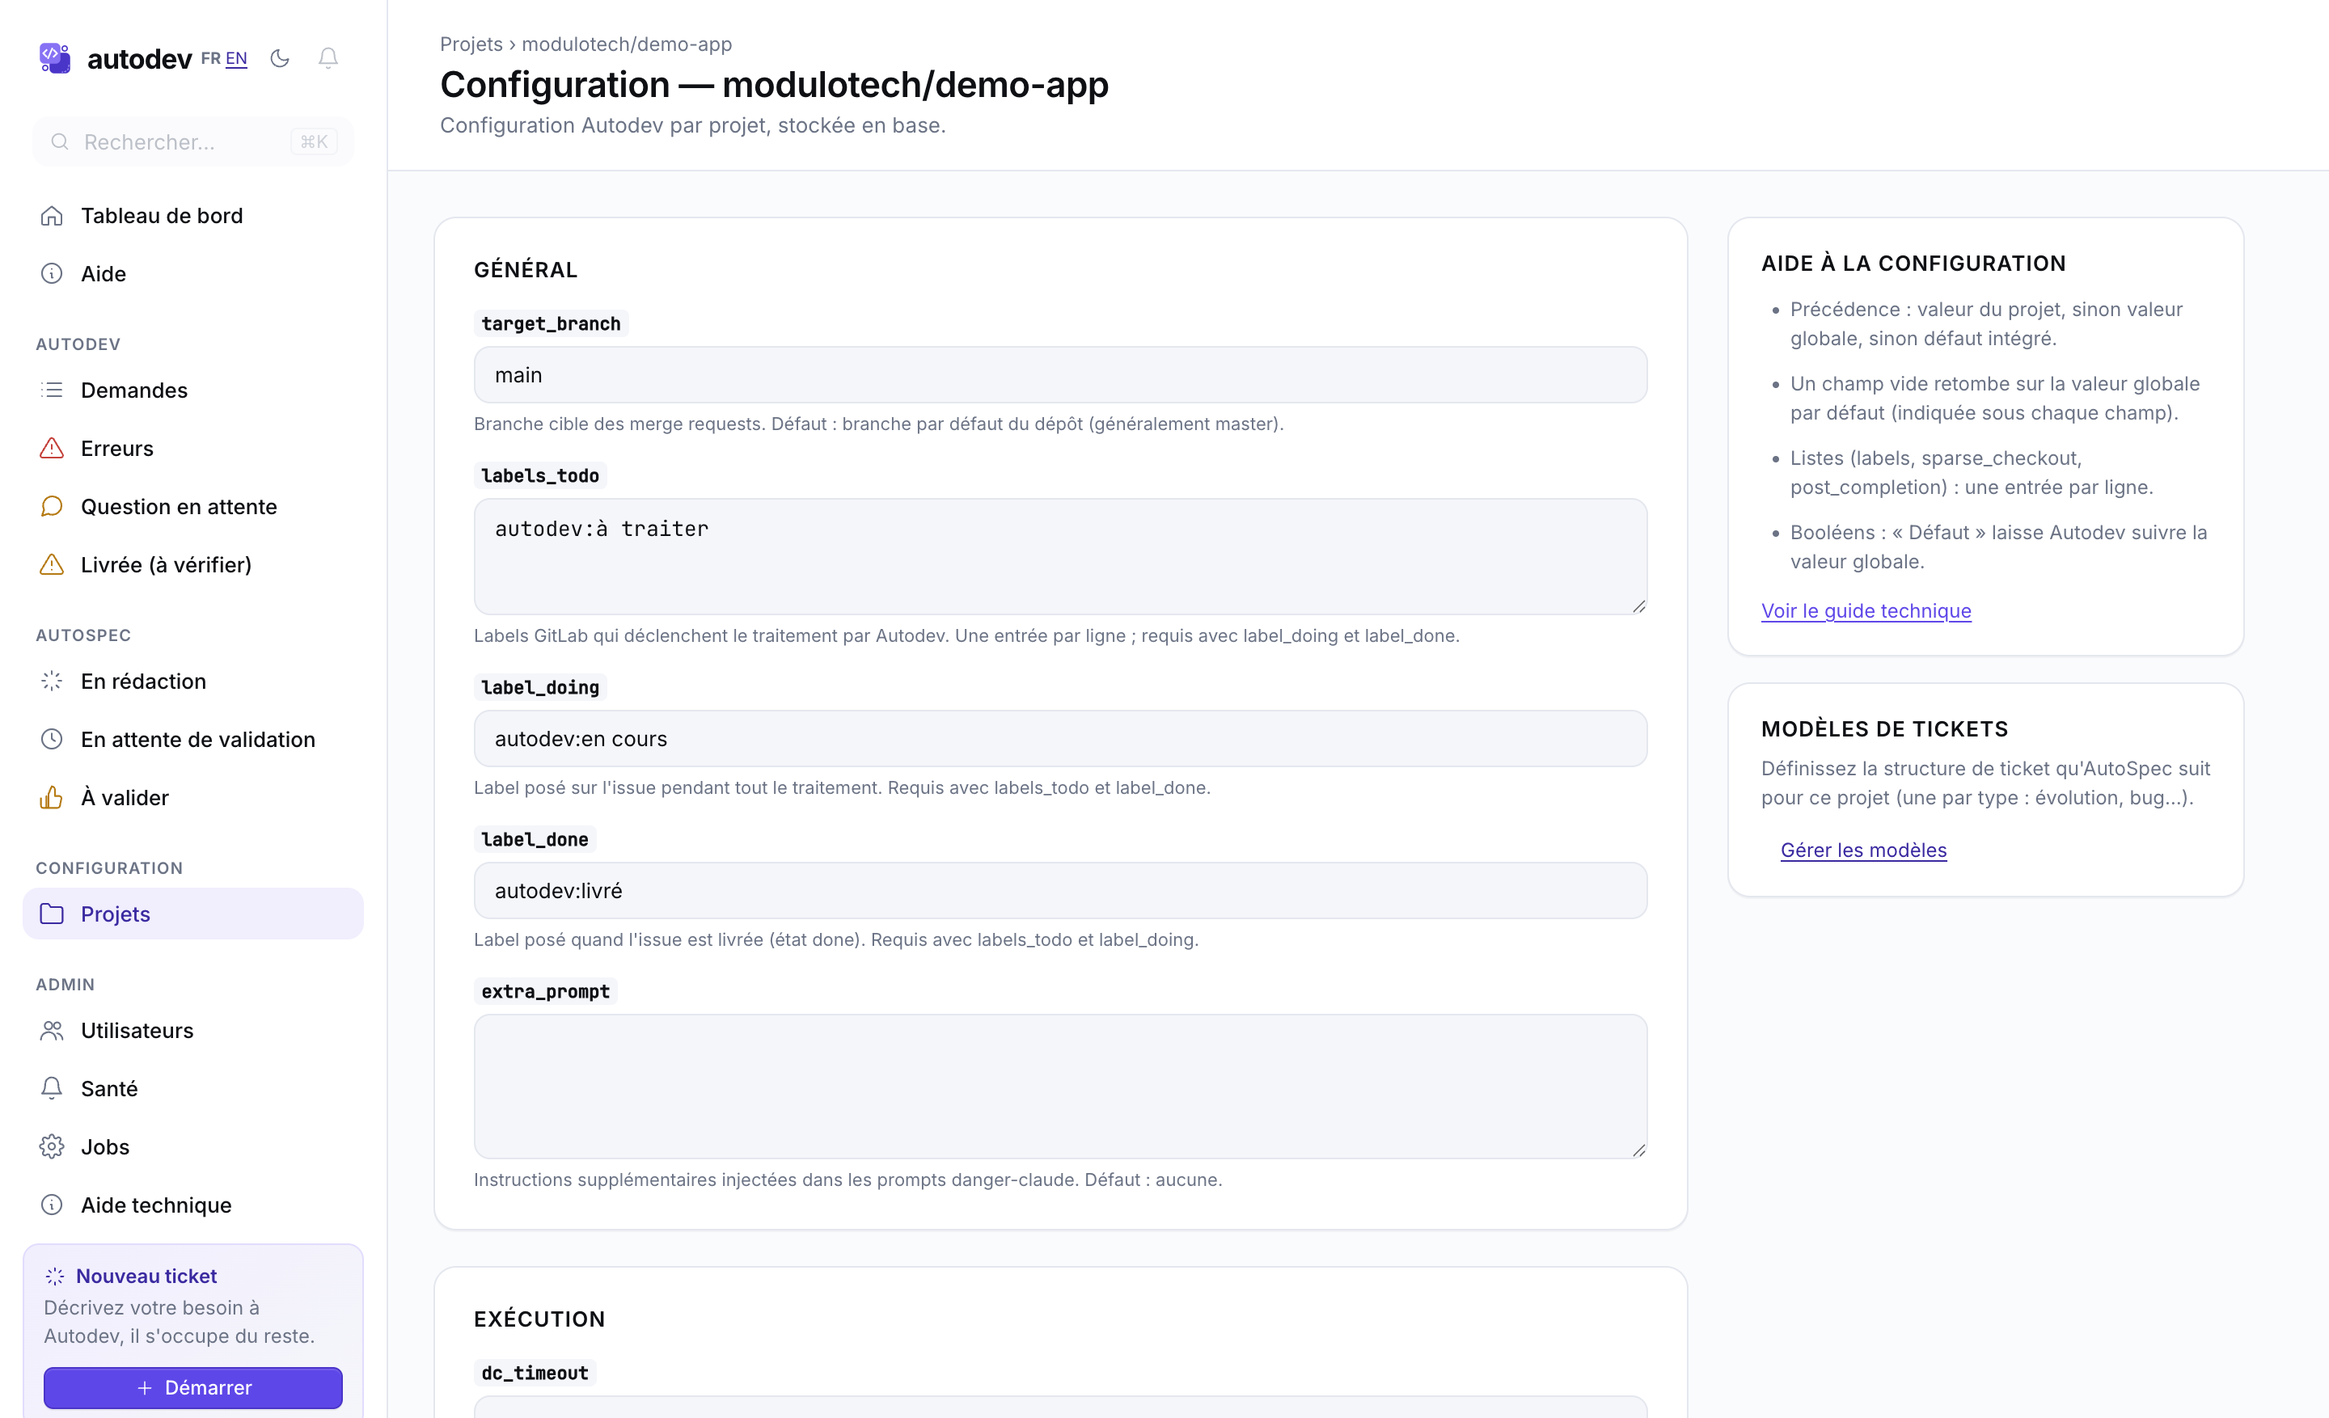
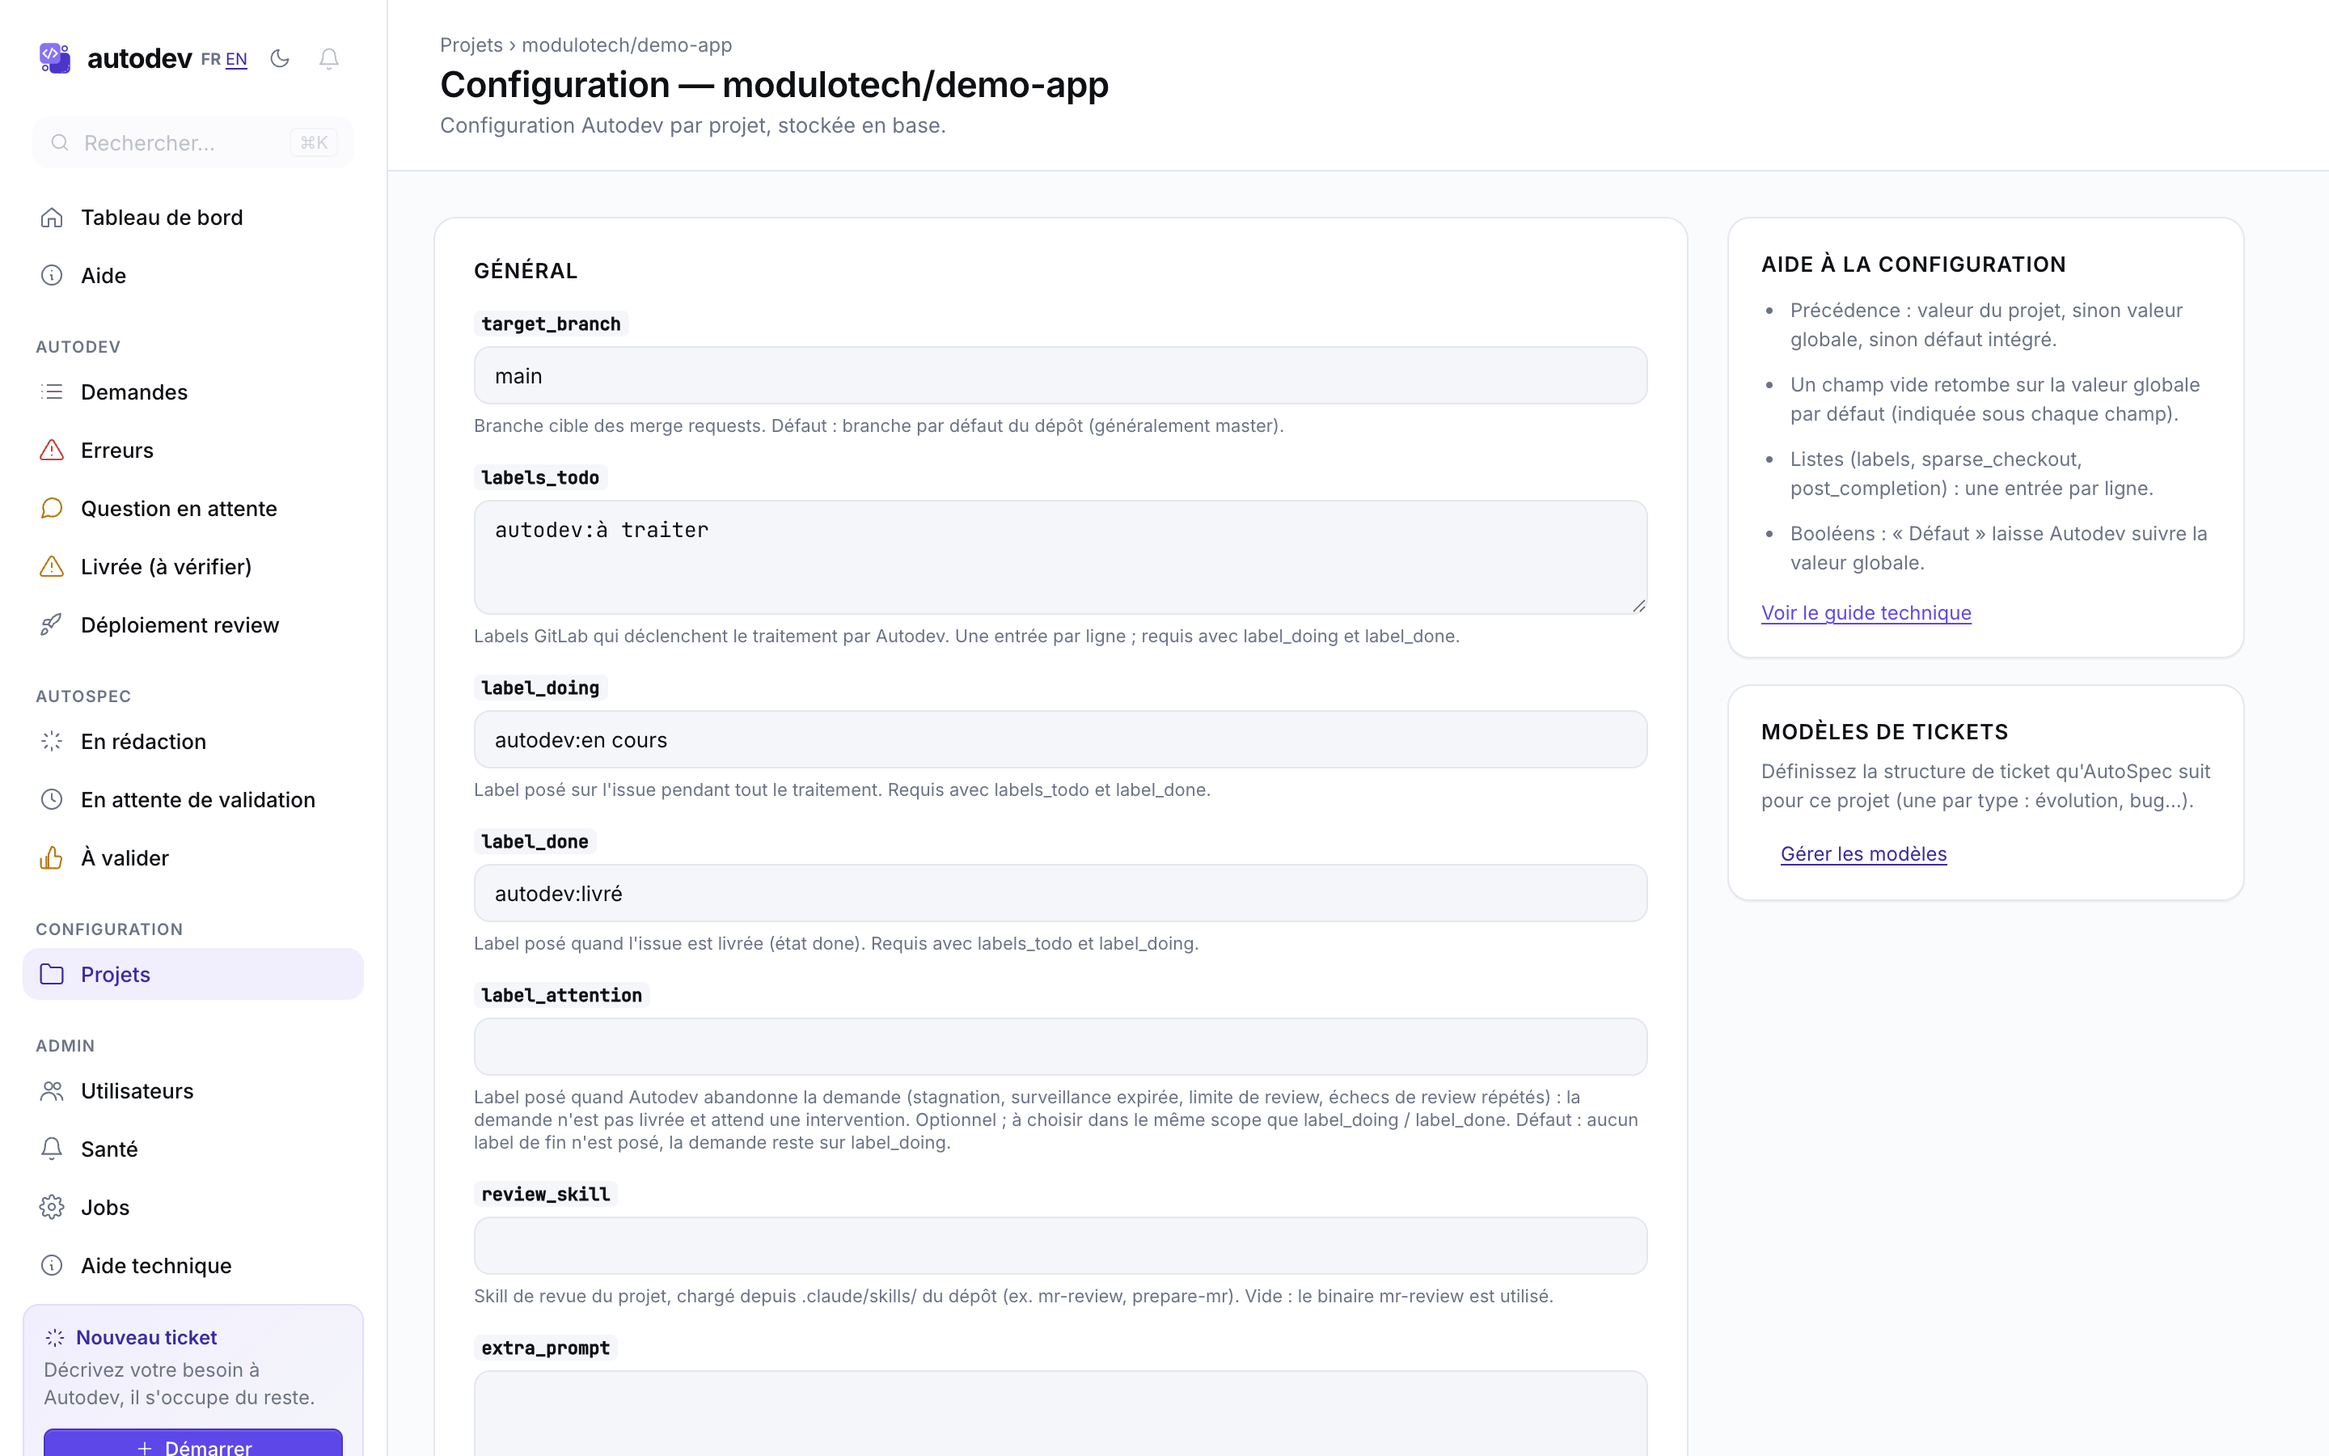
docs: the error catalogue catches up with eleven cases, and the config form is reshot
The technical guide is rendered at /admin/help, and its error catalogue had
not been extended since the review step forked in two.

Added, in the guide's own terms and order: the four failure classes the
skill path introduced (a declared skill missing from the clone, diff_refs
not yet computed, a GitLab error while ReviewPublisher posts, a Claude
quota or credential failure during a skill review — #74); the three
unreachable-read cases that must abort a poll instead of reading as good
news (the jobs endpoint, any read the poll concludes from, the
prompt-context read — #62, #67, #71); the two todo-label-reposed cases the
poll router now answers per issue (#67); the interrupted pre-MR reset that
must stamp next_retry_at; and the health probe that sees the review broken
for everybody (#60).

Also: `autodev -t TOKEN` joins the supervisor's flag table, and the
needs_clarification row of the technical→métier mapping carries the exact
label web.fr.yml renders.

The two configuration-form screenshots are reshot against the current
form: both predated label_attention (#63) and review_skill (#74), so they
showed a GÉNÉRAL block missing the two fields this release documents.
Captured through the documented mode-B flow — scratch DB, demo project,
temporary dev-login shim, deleted afterwards.

The functional guide needed nothing: it was kept in step ticket by ticket.

diff --git a/docs/usage/autodev-technical-usage.md b/docs/usage/autodev-technical-usage.md
@@ -232,6 +232,7 @@ Le binaire `autodev` est à la fois le supervisor (par défaut, démarre Rails +
 | `autodev` | Lance le supervisor (Rails + worker Solid Queue), foreground. |
 | `brew services start autodev` | Idem mais via launchd, logs dans `~/.autodev/log/`. |
 | `autodev -c PATH` | Utilise un fichier de config alternatif. |
+| `autodev -t TOKEN` | Force le token d'API GitLab (`gitlab_token`). |
 | `autodev -n N` | Force le nombre de workers Solid Queue (`AUTODEV_MAX_WORKERS`). |
 | `autodev -i SECONDS` | Force l'intervalle de poll (`AUTODEV_POLL_INTERVAL`). |
 
@@ -292,7 +293,7 @@ Le modèle `Issue` (`app/models/issue.rb`) embarque AASM. 17 états, transitions
 | `fixing_pipeline` | Correction des tests qui échouent |
 | `running_post_completion` | Finalisation |
 | `answering_question` | Réponse à une question |
-| `needs_clarification` | En attente d'une précision |
+| `needs_clarification` | En attente d'une précision de ta part |
 | `done` | Livrée (libellé *Livrée (à vérifier)* quand un cap/stagnation a forcé la livraison) |
 | `error` | Bloquée, intervention nécessaire |
 | `closed` | Clôturée |
@@ -560,6 +561,10 @@ DB primaire : `autospec_drafts` (dont `ticket_template_id`), `autospec_messages`
 |---|---|
 | `danger-claude` non installé | Abort au démarrage |
 | `mr-review` non installé | Warning au démarrage **si au moins un projet ne déclare pas de `review_skill`** (Autodev #74), et étape review skippée pour ces projets-là seulement. Un projet sur le chemin skill lance sa revue via `danger-claude`, qui est une dépendance dure : rien n'est skippé pour lui |
+| Projet déclarant un `review_skill` absent du clone (`.claude/skills/<nom>/SKILL.md`) | `ConfigError` (Autodev #74), volontairement hors du rescue de `review_with_skill` **et** des trois bras de `launch_review` : ce n'est pas un échec de review, aucun compteur ne bouge, et seul le `rescue StandardError` de `PipelineMonitor#check` l'attrape pour la logger. La ligne reste en `reviewing`, qu'aucune passe ne re-sélectionne — c'est `DormantAudit` qui finit par la signaler (`dormant_exhausted`). L'attraper aurait écrit un `ActivityEvent` à chaque poll, donc une boucle non bornée et non signalée : se garer est le moins mauvais des deux comportements disponibles |
+| Review par skill lancée mais `diff_refs` pas encore calculés par GitLab | `review_with_skill` répond `:inconclusive` (Autodev #74), ni vrai ni faux : retour en `checking_pipeline`, **aucun** des deux compteurs touché, et `restore_watch_clock` remet le `checking_pipeline_since` que le poll avait au départ — sinon `stamp_pipeline_watch!` relancerait la borne d'âge de 14 jours à chaque poll de ce type et elle ne tomberait jamais. Le poll suivant refait la review en entier |
+| Erreur GitLab pendant la publication de la review (`ReviewPublisher`) | `ApiUnavailableError`, rescue dans `launch_review` (Autodev #74) : retour en `checking_pipeline` via `resume_watch`, compteurs et horloge de surveillance intacts, puis **re-raise** pour que le poll avorte quand même à la frontière de `PipelineMonitor#check`. Sans ce rescue la ligne restait en `reviewing`, que `dispatch_pipelines` ne sélectionne pas : un 500 transitoire coûtait deux heures et une des trois tentatives de `dormant_audit_max` |
+| Quota Claude épuisé ou credentials morts **pendant** une review par skill | Le chemin skill passe par `danger_claude_prompt`, donc il peut lever `RateLimitError` / `AuthenticationError` là où le binaire ne le pouvait pas. `launch_review` y répond comme tous les autres sites d'appel : `handle_rate_limit` (→ `error` + `next_retry_at`) et `handle_auth_failure` (→ `error`, sans retry, lu par la carte 401 du dashboard). Aucun des deux ne dépense `review_failure_count` |
 | Clone échoue | `error`, retry au prochain poll avec backoff |
 | Aucun changement produit par `danger-claude` | `error` |
 | Push échoue | Retry avec `--force-with-lease` |
@@ -573,6 +578,9 @@ DB primaire : `autospec_drafts` (dont `ticket_template_id`), `autospec_messages`
 | Pipeline rouge (infra / incertaine, 1re fois) | Retrigger unique, recheck au poll suivant |
 | Pipeline rouge (infra / incertaine, après retrigger) | Reste en `checking_pipeline` (manuel) |
 | Pipeline manual / skipped | Résolu sur les jobs bloquants : aucun en échec → vert → review → livraison ; un en échec → chemin rouge. `manual` est l'état final normal d'une MR verte sur un projet dont la pipeline se termine par un `deploy_review` manuel — l'attente était infinie par construction |
+| Pipeline manual / skipped, endpoint jobs injoignable | La lecture lève `ApiUnavailableError` (Autodev #62), le poll avorte, la ligne reste en `checking_pipeline` et est relue au cycle suivant. Une erreur d'API ne doit jamais se lire « rien n'a échoué » — et comme l'abort précède la borne d'âge, elle ne peut pas non plus périmer la surveillance (Autodev #56) |
+| Toute lecture GitLab dont le poll tire une conclusion est injoignable (liste des jobs, discussions de la MR) | Idem : `GitlabHelpers.answer` convertit l'erreur en `ApiUnavailableError` à la lecture, `PipelineMonitor#check` / `MrFixer#fix` / `recheck_infra_recovery` l'attrapent à leur frontière, la ligne garde son statut et une ligne de log nomme l'endpoint tombé. Les compteurs restent intacts eux aussi : la signature de stagnation s'écrit *après* le retour de `clone_and_fix` et la tentative d'infra-recheck après la lecture, donc une panne ne dépense aucun des deux budgets (Autodev #71). Il n'existe aucune valeur de retour signifiant « inconnu » — c'est précisément ce qui rendait une panne indistinguable d'une bonne nouvelle (Autodev #62) |
+| Lecture du contexte de prompt injoignable (`fetch_full_context` — ticket, commentaires, historique des discussions) | Idem sur les deux arbres de correction (Autodev #67) : `attempt_fix` et `execute_fix_cycle` re-lèvent `ApiUnavailableError` au-dessus de leurs deux handlers au lieu de l'imputer à la correction, et `dispatch_fix` fait la lecture *avant* `pipeline_failed_code!` pour que l'abort laisse la ligne en `checking_pipeline` et non en `fixing_pipeline`, qu'aucune passe ne sélectionne. Sur le chemin de **l'implémentation initiale** la réponse est volontairement différente — `error` + `next_retry_at` — parce qu'aucune passe ne ré-enfile une ligne active |
 | Pipeline canceled | Reste en `checking_pipeline` (manuel) : un run interrompu n'a pas de verdict lisible, et il est en général remplacé par une nouvelle pipeline. **Borné** par `pipeline_watch_max_days` |
 | Stagnation pipeline (5 corrections identiques) | `done` + `needs_attention` (`stagnation_pipeline`) + `label_attention`, commentaire d'alerte incluant le job en cause (`attention_detail`, ex. `deploy_review (script_failure)`). Re-tentative auto une fois CI rétablie (voir ligne suivante) |
 | Stagnation pipeline infra — CI rétabli | `dispatch_infra_recheck` ré-enfile `:recheck_infra` ; pipeline courante verte → réentrée `checking_pipeline`. Borné par `infra_recheck_max` (5) / `infra_recheck_backoff` (3600 s) ; jamais de boucle |
@@ -586,10 +594,14 @@ DB primaire : `autospec_drafts` (dont `ticket_template_id`), `autospec_messages`
 | Désassigné en cours d'implémentation | `closed` au poll suivant (était `done` avant #52) + commentaire GitLab explicite. Sort de la population de `dispatch_done_unassigned` : plus de `post_completion` sur un travail interrompu |
 | `label_doing` retiré / `label_done` posé par un tiers | `closed` au poll suivant + commentaire GitLab nommant le label (`Autodev::LabelHandover`) |
 | Label de workflow déplacé vers une autre valeur du scope d'autodev | Idem. Le scope est déduit de `label_doing` + `label_done` (`label_attention`, qu'Autodev écrit lui aussi, est retiré de l'ensemble des labels « libres » mais reste hors de la dérivation) ; les labels hors scope (`PM::Evolution`, `Backlog`, noms de clients…) sont ignorés, et la règle se désactive d'elle-même si ces deux labels ne partagent aucun scope. L'auteur de l'édition est lu dans les *resource label events* GitLab, et seulement quand la lecture gratuite des labels a déjà un candidat — un ticket sain ne coûte aucun appel API supplémentaire |
+| Label todo reposé sur un ticket terminé, état de la MR illisible | `PollRouter#route` saute *cette issue* pour le cycle (Autodev #67) — la frontière est par issue, donc le reste de la passe tourne. Avant, l'illisible se lisait `:reimplementation`, la branche la plus chère qui existe |
+| Label todo reposé sur un ticket terminé, MR `locked` | Attente : aucune transition, aucun label, aucun commentaire. `locked` est l'état transitoire de fusion de GitLab, et la branche `else → :reimplementation` re-implémentait par-dessus un travail sur le point d'atterrir. Le label todo reste posé et le cycle suivant relit (Autodev #67) |
 | Interruption en `fixing_pipeline` | Reset à `checking_pipeline` au boot |
 | Interruption en `reviewing` | Reset à `checking_pipeline` au boot |
 | Échec du hook `post_completion` | Non bloquant : `done` quand même, erreur stockée dans `post_completion_error`, visible via `--errors` et dans l'onglet *Livrée (à vérifier)* (`/issues?tab=delivered_review`) |
 | Interruption en `running_post_completion` | Reset à `done` au boot (non rejoué) |
+| Interruption avant l'ouverture de la MR (`cloning`…`creating_mr`) | Reset à `pending` **et** `next_retry_at` estampillé → ré-enfilée par `:retry_stuck` au poll suivant. Sans l'estampille le label GitLab reste `label_doing`, donc `dispatch_new_issues` ne la redécouvre jamais : une `pending` orpheline |
+| Review en échec sur plusieurs tickets à la fois (quel que soit le chemin) | La sonde `mr_review` de `HealthReport` lève un `warn` sur `/admin/health` + `/healthz` (200, pas 503 — une review cassée n'arrête pas la livraison) dès que **≥ `monitoring.review_failure_threshold` issues distinctes** (défaut 3) ont enregistré un échec de review dans **`monitoring.review_failure_window_seconds`** (défaut 21 600 = 6 h). `review_failure_count` et `review_failures_exhausted`, qui sont par ticket, ne peuvent pas voir ça : une panne globale ressemble à N tickets sans rapport (Autodev #60). Les deux défauts sont calibrés sur la production — les incidents isolés plafonnent à 1 issue distincte par fenêtre de 6 h, la panne du 11/08/2026 en a atteint 25 |
 | Usage Claude exhausted | Gate **par passe** (`Autodev::UsageGate`) : seules les passes qui appellent `danger-claude` / `mr-review` sont sautées. Suivi des pipelines, clôtures GitLab, post-completion et rechecks continuent — une coupure ne gèle plus les tickets déjà implémentés. Bandeau warn sur le dashboard, carte *Quota Claude* sur `/admin/health`. Fail-open sur sonde absente / illisible / périmée |
 
 \newpage

diff --git a/CHANGELOG.md b/CHANGELOG.md
@@ -2,6 +2,10 @@
 
 ## [Unreleased]
 
+### Changed
+
+- **The technical guide's error catalogue catches up with eleven cases the code already handles.** `docs/usage/autodev-technical-usage.md` is rendered at `/admin/help`, and its catalogue had not been extended since the review step forked in two: the four failure classes the skill path introduced (a declared skill missing from the clone, `diff_refs` not yet computed, a GitLab error while `ReviewPublisher` posts, a Claude quota or credential failure *during* a skill review — Autodev #74), the three unreachable-read cases that must abort a poll instead of reading as good news (the jobs endpoint, any read the poll concludes from, the prompt-context read — Autodev #62, #67, #71), the two todo-label-reposed cases the poll router now answers per issue (Autodev #67), the interrupted pre-MR reset that must stamp `next_retry_at`, and the health probe that sees the review broken for everybody (Autodev #60). Also added: `autodev -t TOKEN` to the supervisor's flag table, and the `needs_clarification` row of the technical→métier mapping now carries the exact label `web.fr.yml` renders. The functional guide needed nothing — it was kept in step ticket by ticket. The two configuration-form screenshots (`15-project-edit.png`, `16-project-new.png`) are reshot: they predated `label_attention` (Autodev #63) and `review_skill` (Autodev #74), so the form they showed was missing both fields the release documents.
+
 ## [1.0.0-alpha.48] - 2026-08-24
 
 ### Added
